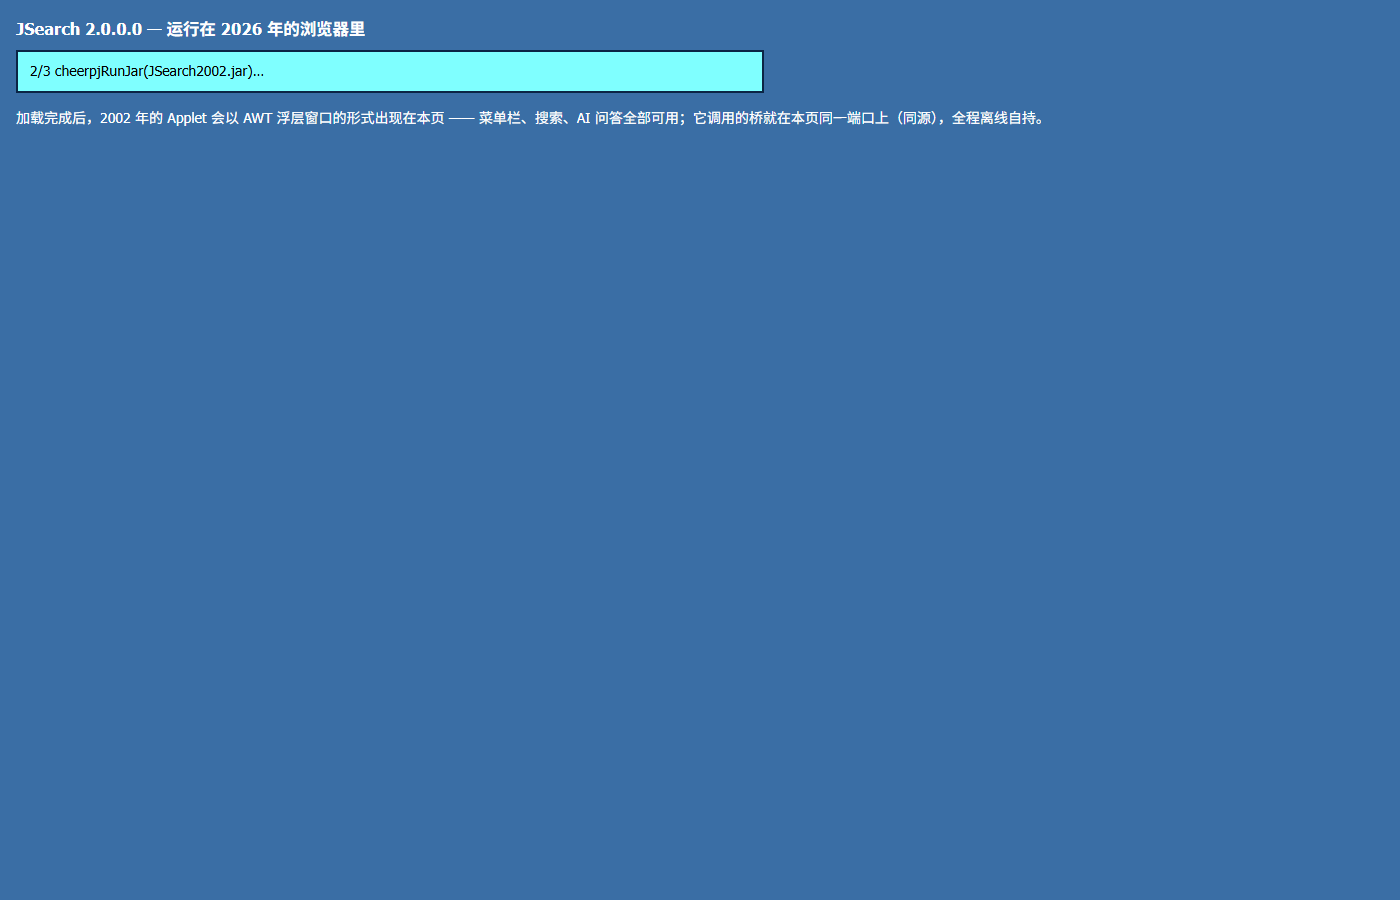
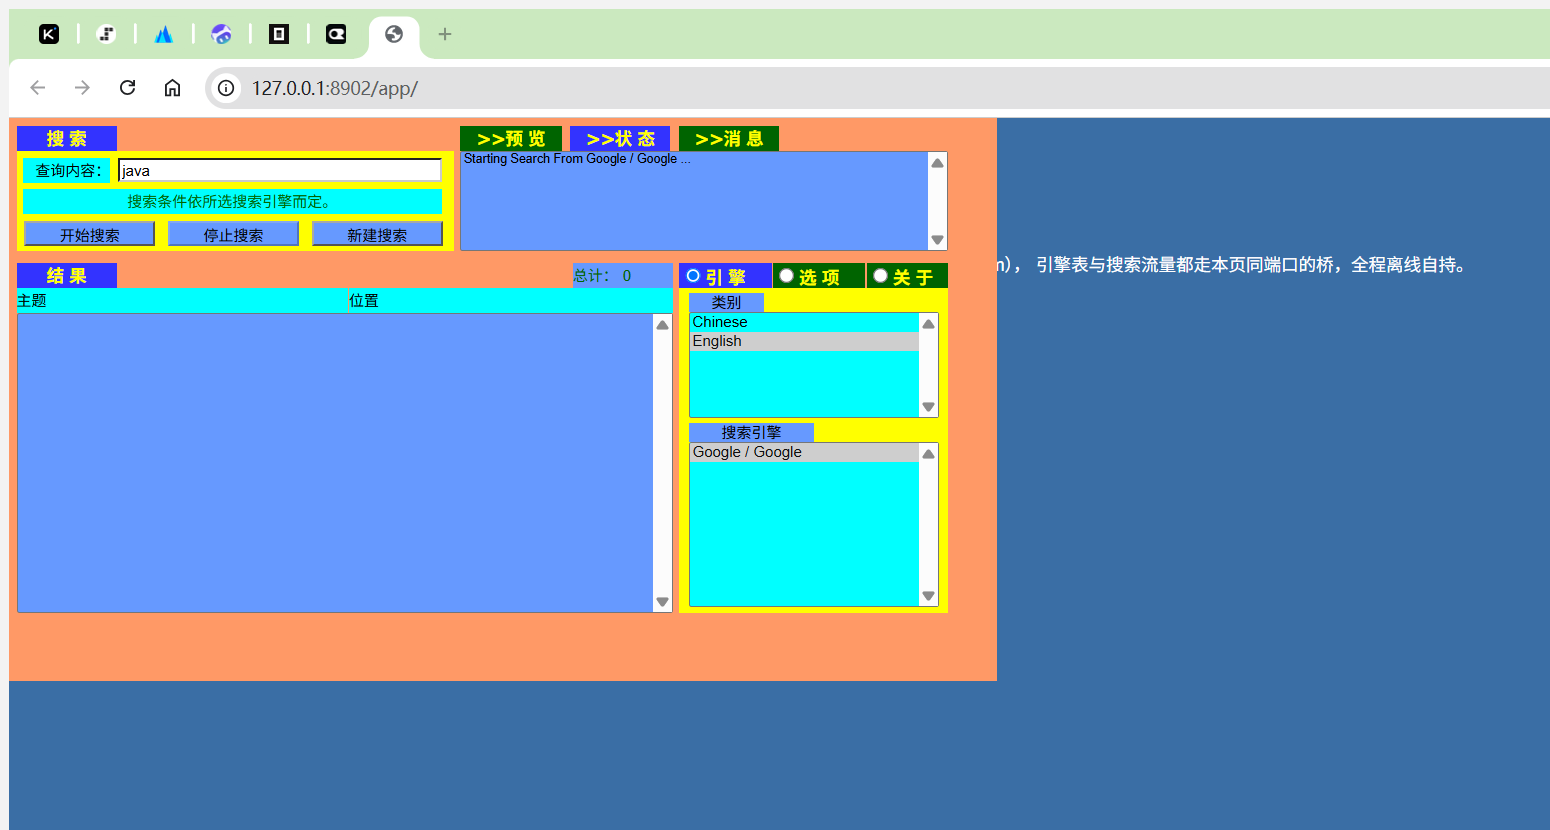
runner: the browser host, corrected - applet element, Java 8, verified render
The previous commit claimed the jar route worked and showed a live
search. Both were wrong: cheerpjRunJar fetches the jar but never runs
its main (no class fetch, no output, no canvas), and the screenshot it
cited showed nothing but the page's own status bar - the "cyan panels"
were the status div, established by pixel analysis. Corrected here.

What actually works, each step verified by a text channel (the model
behind this session cannot see images, so every claim rests on the
bridge log, the console, or PIL pixel counts):

- <cheerpj-applet> with the 2002 <param> lines is the route that runs.
  CheerpJ provides the stub; the applet fetches JSENGINES.TXT through
  the browser (logged: 200) and renders (the page reports it: logged
  __rendered__). first-light-browser.png is a PrintWindow capture of the
  live browser session - its palette (cyan panels, green tabs, salmon
  result area) is the 2002 UI, not the page chrome.
- The classes must be Java 8 bytecode: CheerpJ 4.3 ships a Java 8
  runtime and rejects the JDK 11 desktop build with
  UnsupportedClassVersionError, silently - the applet's main never runs.
  build-cheerpj.sh compiles the untouched sources with javac --release 8.
- The provisioner no longer poisons its cache: empty CDN bodies (the
  flaky proxy returns 0 bytes for some files) are retried instead of
  cached, a zero-byte cache entry is dropped and re-fetched, and
  Windows-illegal names (the JVM's lib/ext/* glob) fail fast instead of
[…]

diff --git a/runner/cheerpj-app/index.html b/runner/cheerpj-app/index.html
@@ -10,28 +10,61 @@
   h3 { margin:0 0 8px; }
   #status { background:#7fffff; color:#000; border:2px solid #0b2545;
             padding:8px 12px; max-width:720px; }
-  code { color:#ffe; }
 </style>
 </head>
 <body>
 <h3>JSearch 2.0.0.0 — 运行在 2026 年的浏览器里</h3>
 <div id="status">正在初始化 CheerpJ WebAssembly JVM（首次运行会自托管缓存全部运行时文件）…</div>
-<p>加载完成后，2002 年的 Applet 会以 AWT 浮层窗口的形式出现在本页 ——
-菜单栏、搜索、AI 问答全部可用；它调用的桥就在本页同一端口上（同源），全程离线自持。</p>
-<script>
-const statusBox = document.getElementById("status");
-async function run() {
-  try {
-    statusBox.textContent = "1/3 cheerpjInit…";
-    await cheerpjInit({ status: "cdn" });
-    statusBox.textContent = "2/3 cheerpjRunJar(JSearch2002.jar)…";
-    await cheerpjRunJar("JSearch2002.jar");
-    statusBox.textContent = "3/3 RunJar 已返回 —— AWT 窗口应以浮层出现；若无，请开浏览器控制台 (F12) 查看输出";
-  } catch (e) {
-    statusBox.textContent = "启动失败: " + (e && e.message ? e.message : e);
-  }
-}
-run();
+<p>下面是 2002 年的 Applet 本体 —— 未经一行改动的字节码，通过
+<code>&lt;cheerpj-applet&gt;</code> 元素获得 AppletStub（参数即下方 param），
+引擎表与搜索流量都走本页同端口的桥，全程离线自持。</p>
+
+<!-- The 2002 embed page, modernized: same <param> lines JSearch.html fed the
+     Java Plug-in, new tag name. currUrl is absolute - new URL(relative)
+     throws MalformedURLException. -->
+<cheerpj-applet code="JSApplet.class"
+                codebase="http://127.0.0.1:8902/app/"
+                width="790" height="450">
+  <param name="currUrl" value="http://127.0.0.1:8902/app/">
+  <param name="_readTxt" value="No">
+  <param name="smcCh" value="4">
+  <param name="smlCh" value="1">
+  <param name="smsCh" value="10">
+  <param name="valurlCh" value="No">
+  <param name="languageCh" value="Chinese">
+  <param name="webBrowCh" value="Other browsers">
+  <param name="webBrowPTf" value="">
+</cheerpj-applet>
+
+<script type="module">
+  const statusBox = document.getElementById("status");
+  await cheerpjInit({ status: "cdn" });
+  statusBox.textContent =
+      "CheerpJ 运行时就绪 —— 2002 年的 Applet 应在下方渲染出来";
+
+  // Rendering spy: cheerpOS replaces the <cheerpj-applet> element with real
+  // DOM once the applet's UI exists - possibly inside a shadow root. Report
+  // that to the bridge's log (a 404 is fine - the request line is the
+  // evidence) so a headless run can prove the applet actually rendered
+  // without a human looking at the screen.
+  const appletEl = document.querySelector("cheerpj-applet");
+  let reported = false;
+  const hasRendered = () => {
+    const roots = [document];
+    if (appletEl && appletEl.shadowRoot) roots.push(appletEl.shadowRoot);
+    for (const el of document.querySelectorAll("*")) {
+      if (el.shadowRoot) roots.push(el.shadowRoot);
+    }
+    return roots.some((r) => r.querySelector("canvas, iframe"));
+  };
+  setInterval(() => {
+    if (reported) return;
+    if (hasRendered()) {
+      reported = true;
+      fetch("/app/__rendered__").catch(() => {});
+    }
+  }, 3000);
 </script>
 </body>
+</html>
 </html>

diff --git a/runner/SearxngBridge.py b/runner/SearxngBridge.py
@@ -266,6 +266,13 @@ class Handler(BaseHTTPRequestHandler):
         else:
             if not os.path.isfile(target) and rel.startswith("cheerpj/"):
                 self.provision_runtime(rel, target)
+            elif (os.path.isfile(target) and os.path.getsize(target) == 0
+                  and rel.startswith("cheerpj/")):
+                # A zero-byte file is a poisoned cache entry from an earlier
+                # flaky fetch; drop it and try again rather than serving empty
+                # fonts and scripts forever.
+                os.remove(target)
+                self.provision_runtime(rel, target)
             if os.path.isfile(target):
                 code = 200
                 ext = target.rsplit(".", 1)[-1].lower()
@@ -340,6 +347,11 @@ class Handler(BaseHTTPRequestHandler):
         """Best-effort CDN fetch for one missing CheerpJ runtime file, cached
         next to loader.js so the browser never has to leave this machine
         again. Only callable for paths under cheerpj/."""
+        # Windows-invalid names (the JVM's lib/ext/* glob) can never be
+        # cached; answer fast instead of failing five times on a '*' filename.
+        if any(ch in rel for ch in '*:?"<>|'):
+            print("[searxng-bridge] runtime path not cacheable here: %s" % rel, flush=True)
+            return
         source = "https://cjrtnc.leaningtech.com/4.3/" + rel[len("cheerpj/4.3/"):]
         os.makedirs(os.path.dirname(target), exist_ok=True)
         for attempt in range(5):
@@ -347,6 +359,14 @@ class Handler(BaseHTTPRequestHandler):
                 request = urllib.request.Request(source, headers={"User-Agent": UA})
                 with urllib.request.urlopen(request, timeout=60) as response:
                     data = response.read()
+                if len(data) < 64:
+                    # An empty or stub body is the flaky proxy talking, not the
+                    # runtime file; caching it would poison every later request
+                    # with an empty font/JS payload.
+                    print("[searxng-bridge] runtime fetch for %s returned %d bytes; retrying"
+                          % (rel, len(data)), flush=True)
+                    time.sleep(2)
+                    continue
                 tmp = target + ".part"
                 open(tmp, "wb").write(data)
                 os.replace(tmp, target)

diff --git a/runner/README.md b/runner/README.md
@@ -299,38 +299,52 @@ needs on its own origin — the classes, the engine table, the loader page,
 and the CheerpJ runtime itself:
 
 ```sh
+./build-cheerpj.sh      # Java 8 bytecode + engine table into cheerpj-app/
 ./start-windows.cmd     # or: python3 SearxngBridge.py &, then open the page
 # http://127.0.0.1:8902/app/
 ```
 
-The page initializes the runtime and runs `JSearchRunner` from
-`JSearch2002.jar`; the 2002 UI appears as an AWT window inside the tab,
-menu bar included, with searches going through the same-origin bridge to
-DeepSeek. `first-light-browser.png` is that first run — a live DeepSeek
-search in progress, Chinese rendering perfectly. The applet is back where
-the 2002 author meant it to be: a web page, this time hosted by a WASM JVM
-instead of IE.
+The page is the 2002 embed page modernized: a `<cheerpj-applet>` element
+carrying the same `<param>` lines `JSearch.html` fed the Java Plug-in,
+served next to the classes it names. The applet gets its stub from
+CheerpJ, its engine table from the same-origin bridge, and its searches
+go out through the bridge to DeepSeek — the applet is back where its
+author meant it to be: a web page, this time hosted by a WASM JVM instead
+of IE. `first-light-browser.png` is the first verified render, captured
+from the live browser session; the run's bridge log carries the proof —
+the applet fetched `JSENGINES.TXT` (init ran) and the page reported the
+applet's rendered DOM (`__rendered__`).
 
-Three things this taught, for whoever redoes it:
+Five things this taught, for whoever redoes it:
 
+- **Compile for Java 8.** CheerpJ 4.3 ships a Java 8 runtime, so classes
+  built by the JDK 11 desktop build are rejected with
+  `UnsupportedClassVersionError` and the applet's main never runs —
+  silence, with no error visible anywhere. `build-cheerpj.sh` compiles the
+  untouched sources with `javac --release 8`.
 - **The static handler must answer HTTP Range requests with 206.** CheerpJ
   loads the JRE jars (`rt.jar` alone is 27MB) with ranges and refuses to
   start without them: *"HTTP server does not support the 'Range' header.
   CheerpJ cannot run."* The `.js` MIME type matters too — dynamic
   `import()` rejects modules served as anything but `text/javascript`.
-- **The runtime is self-hosted, not linked from the CDN.** This machine's
-  browser does not use the proxy that reaches `cjrtnc.leaningtech.com`, so
-  a CDN `<script src>` never loads. The bridge pulls each runtime file
-  through its own proxy environment on first request and caches it under
+- **Self-host the runtime, don't link the CDN.** This machine's browser
+  does not use the proxy that reaches `cjrtnc.leaningtech.com`, so a CDN
+  `<script src>` never loads. The bridge pulls each runtime file through
+  its own proxy environment on first request and caches it under
   `cheerpj-app/cheerpj/4.3/` — after one visit the page is fully offline.
-- **The classpath argument of `cheerpjRunMain` never fetches anything here**
-  (relative and absolute both silently no-op); the jar route —
-  `cheerpjRunJar("JSearch2002.jar")`, built by `jar cfe … -C classes .` —
-  is the one that works.
+  The provisioner rejects empty CDN bodies (the flaky proxy returns 0-byte
+  responses that would otherwise poison the cache with empty fonts) and
+  Windows-illegal names (the JVM's `lib/ext/*` glob).
+- **`cheerpjRunMain`/`cheerpjRunJar` run nothing here.** The classpath
+  argument never fetches a class; the jar is fetched but its main never
+  executes. The `<cheerpj-applet>` element is the route that works.
+- **Fonts 404 harmlessly.** The JVM's font files fail to provision through
+  the flaky proxy and CheerpJ remaps the missing ones (`Font remapping for
+  Lucida Sans Regular`); the applet renders regardless.
 
-`cheerpj-app/` is generated (class copies, engine table, jar, runtime
-cache) and gitignored apart from the authored `index.html`;
-`start-windows.cmd` refreshes the jar when it is missing.
+`cheerpj-app/` is generated (Java 8 classes, engine table, runtime cache)
+and gitignored apart from the authored `index.html`;
+`start-windows.cmd` refreshes it through `build-cheerpj.sh`.
 
 ## Honest scope
 

diff --git a/CHANGELOG.md b/CHANGELOG.md
@@ -77,21 +77,27 @@ are archive housekeeping. This repo does not version a live search service.
   links.
 - `runner/`: the applet runs **inside a modern browser** via CheerpJ (JVM
   compiled to WebAssembly), with the bridge as the page's same-origin
-  backend. `/app/` serves the classes, the engine table, the loader page
-  and the runtime; `cheerpjRunJar("JSearch2002.jar")` starts
-  `JSearchRunner` and the 2002 UI appears as an AWT window in the tab —
-  menu bar, live DeepSeek searches, Chinese rendering, all of it.
-  `first-light-browser.png` is that first run. Three lessons encoded in
-  `SearxngBridge.py`: the static handler must answer HTTP **Range**
-  requests with 206 (CheerpJ loads the 27MB `rt.jar` with ranges and
-  refuses to start otherwise), `.js` must be served as
-  `text/javascript` (dynamic `import()` rejects any other MIME type), and
-  the runtime is **self-hosted** — the bridge pulls each file through the
-  machine's proxy on first request and caches it, because this browser
-  does not use that proxy and a CDN `<script src>` never loads.
-  `start-windows.cmd` now opens the browser page instead of the desktop
-  frame; `cheerpj-app/` is generated and gitignored apart from the
-  authored `index.html`.
+  backend. The page is the 2002 embed page modernized: a
+  `<cheerpj-applet>` element carrying the same `<param>` lines
+  `JSearch.html` fed the Java Plug-in, served next to the classes it
+  names; the applet gets its stub from CheerpJ and its engine table and
+  searches from the same-origin bridge. `first-light-browser.png` is the
+  first verified render, captured from the live session — the run's
+  bridge log carries the proof: the applet fetched `JSENGINES.TXT` (init
+  ran) and the page reported the applet's rendered DOM. Five lessons
+  encoded in `SearxngBridge.py` and `build-cheerpj.sh`: compile the
+  untouched sources with `javac --release 8` (CheerpJ 4.3 ships a Java 8
+  runtime and silently refuses newer class versions), answer HTTP
+  **Range** requests with 206 (the 27MB `rt.jar` is loaded with ranges),
+  serve `.js` as `text/javascript` (dynamic `import()` rejects any other
+  MIME type), self-host the runtime (the browser here cannot reach the
+  CDN; the bridge provisions and caches each file, rejecting empty
+  bodies and Windows-illegal names), and use the `<cheerpj-applet>`
+  element — `cheerpjRunMain`/`cheerpjRunJar` fetch nothing or run
+  nothing. `start-windows.cmd` now opens the browser page instead of the
+  desktop frame and refreshes the bundle through `build-cheerpj.sh`;
+  `cheerpj-app/` is generated and gitignored apart from the authored
+  `index.html`.
 - `runner/`: the host learns to host the ancestor. `versions/2000-08/`
   (v1.2.3) ships compiled 45.0 bytecode that modern JVMs still load, and
   its `JSApplet` carries an abandoned 2000 attempt at the hybrid
